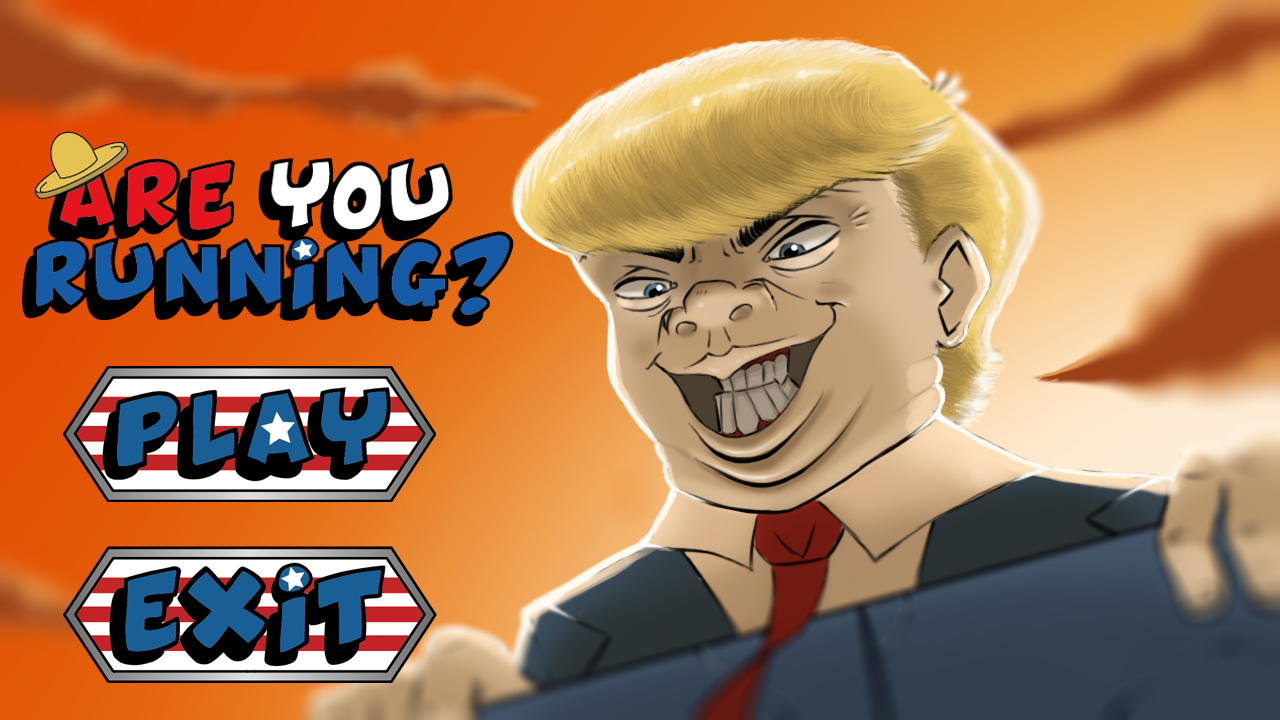
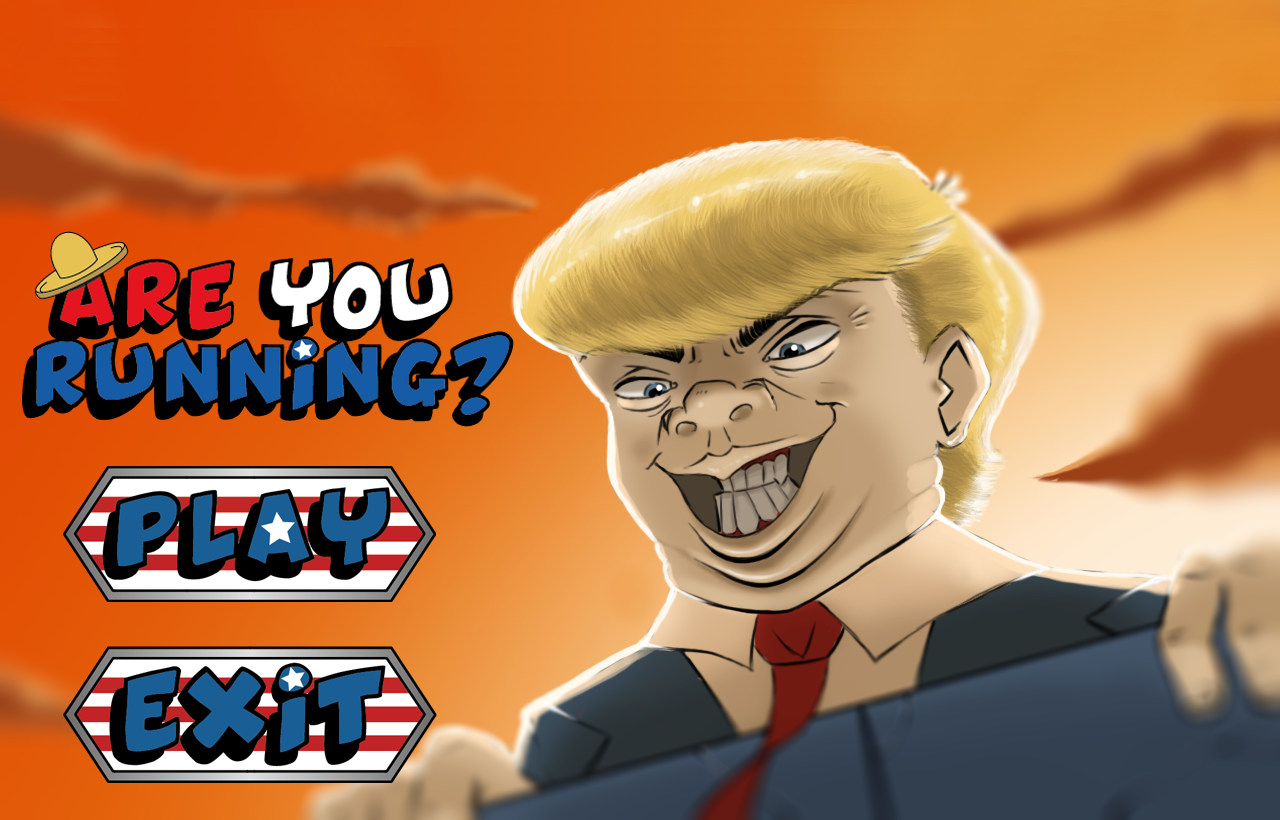
New title screen

diff --git a/core/src/io/syhids/mgj17/Entities.kt b/core/src/io/syhids/mgj17/Entities.kt
@@ -142,7 +142,7 @@ class DeportedSheet : Entity() {
 class Menu : Entity(){
     init {
         add(MenuComponent())
-        add(PositionComponent())
+        add(PositionComponent(y = 26f))
         add(SpriteComponent(img = Texture("titulo.png"), scale = 1f, visible = false, depth = 1000))
     }
 
